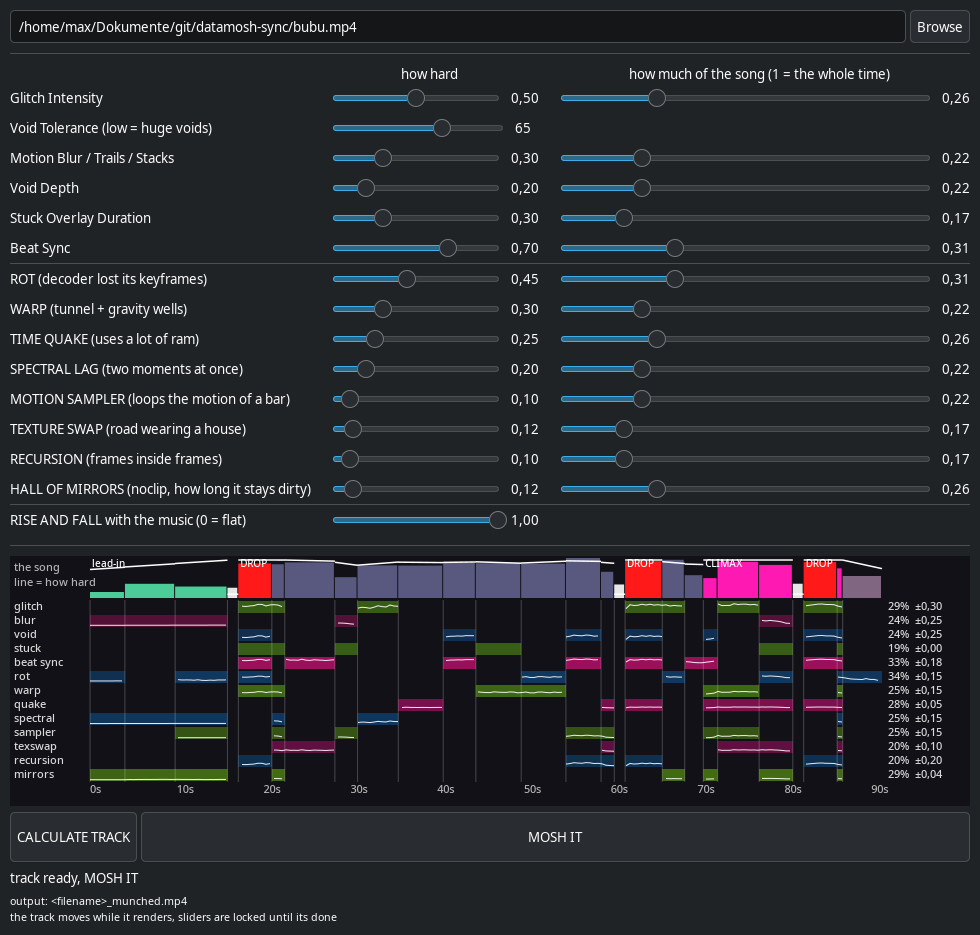
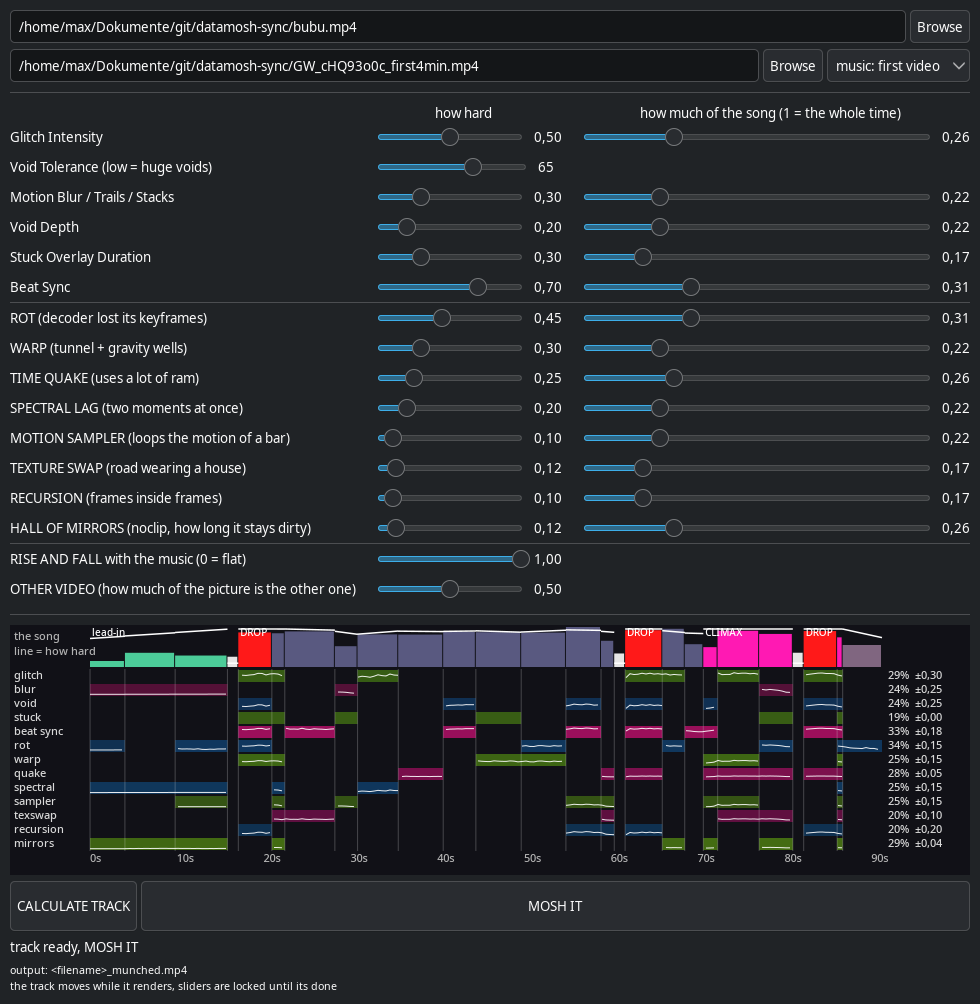
readme: two videos

diff --git a/README.md b/README.md
@@ -174,7 +174,27 @@ terminal prints what really happened at the end, look for [swing]
 global slider RISE AND FALL, 0 = flat like before. on the command line its the very
 last arg, after the 13 parts ones. left out = 1
 
-## what it looks like
+## two videos at once
+
+```
+./datamosh-sync --other other.mp4 --music a --cross 0.5 video.mp4 "" 0 100 0 0 0 0 0.25 0.05 0 0 0 0 0 0
+```
+
+or in the gui, the second box. chunks of the picture stop being the first video and
+become the other one, with its motion, residuals and healing. the chunks are blobs
+of noise and change every 8 kicks
+
+- `--music` a, b or both. the track gets made from whatever you pick
+- `--cross` how much of the picture is the other video
+- output gets the slower fps of the two and stops at the shorter one. other video
+  gets cropped to the size of the first
+- about 1.6x slower
+
+keep rot low (.25 or so, not the .45 default) or it turns to mush and you cant tell
+theres two videos. only rot and warp do this so far, the other effects still
+only see the first video
+
+
 
 every effect alone at max, everything else off. 3 random 5 sec clips from a drone video,
 screenshot is the last frame of the clip unless it says otherwise. full size is 1440x1080, these are shrunk
